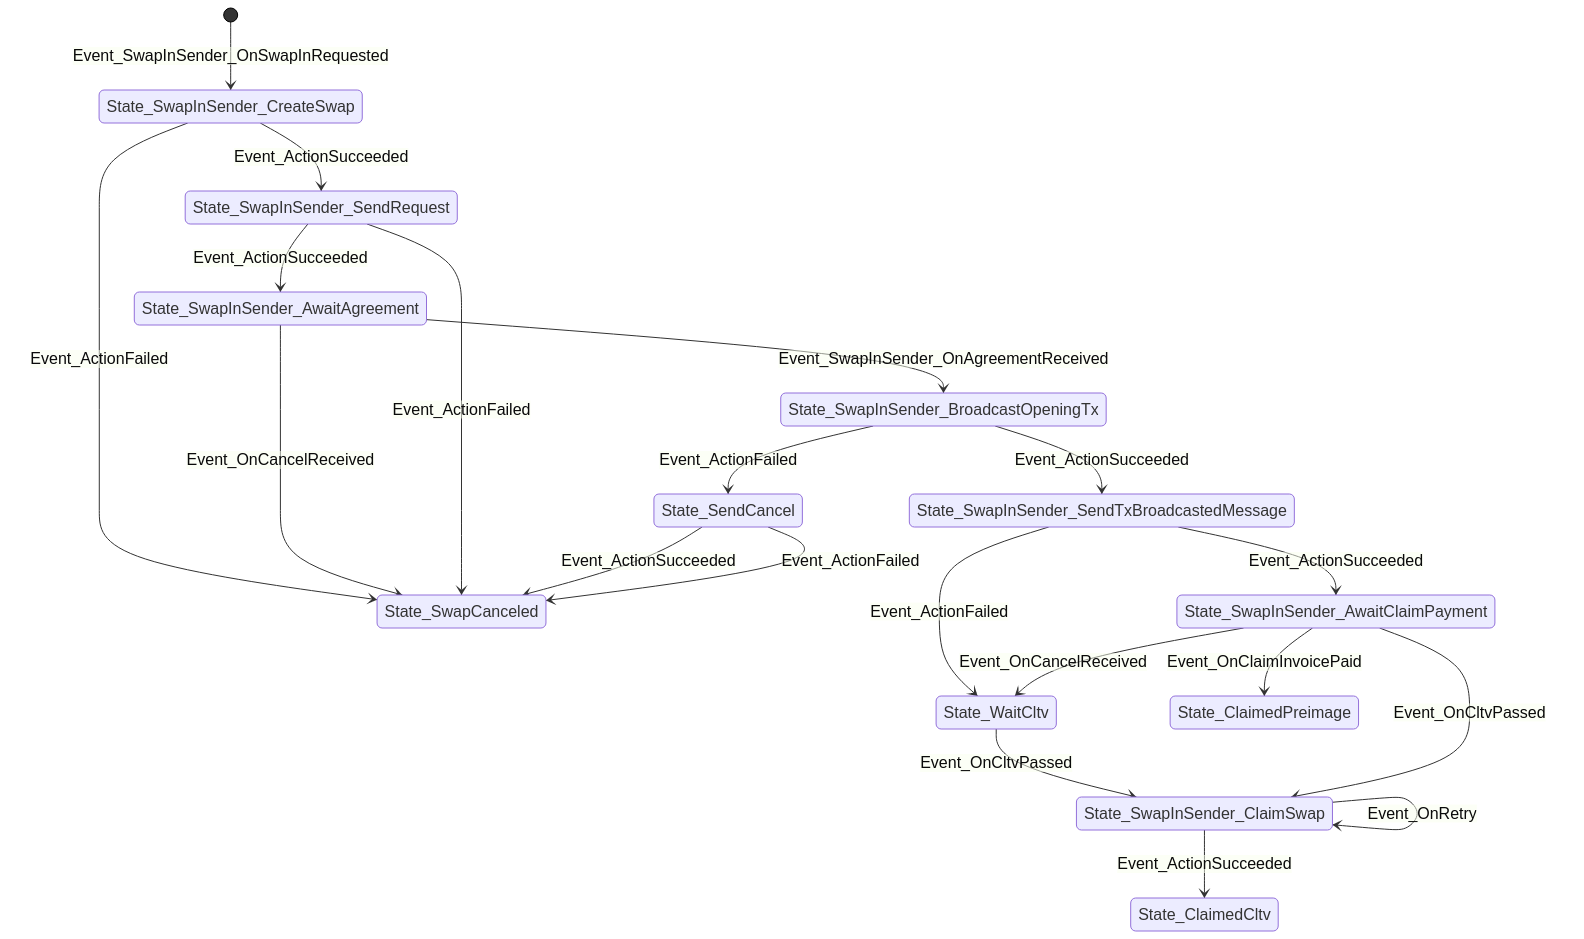
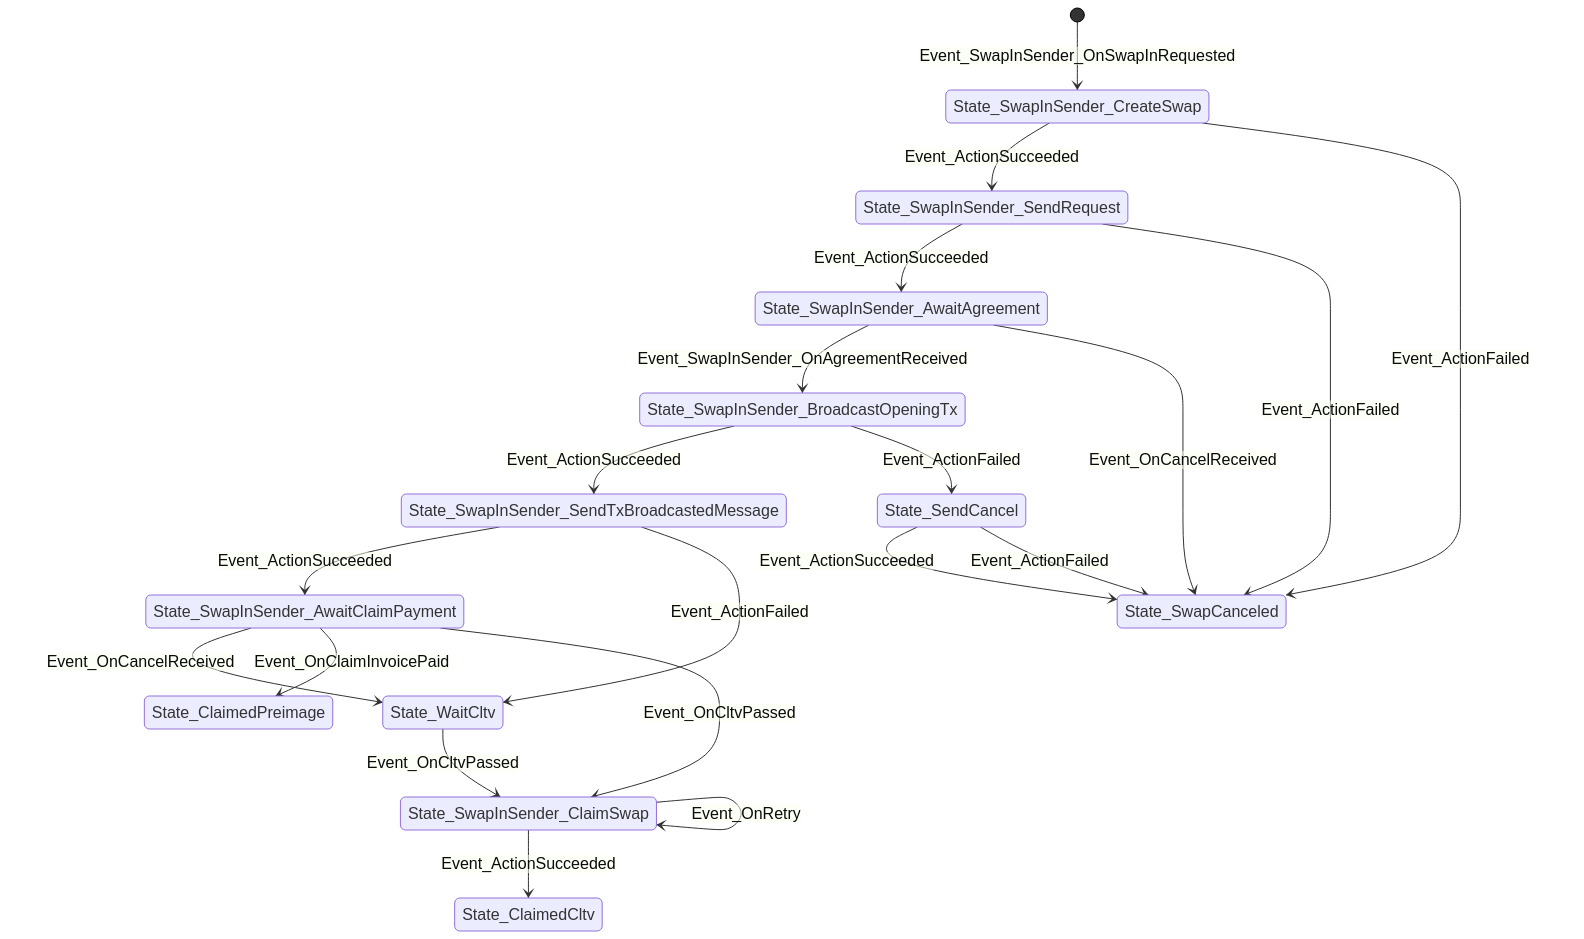
fix broken tests

diff --git a/test/test_peerswap-swap-out.py b/test/test_peerswap-swap-out.py
@@ -184,12 +184,12 @@ def test_peer_not_whitelisted(elementsd: ElementsD, node_factory: NodeFactory):
         )
 
     # wait for nodes to receive events
-    nodes[0].daemon.wait_for_log("Event_OnCancelReceived on State_SwapOutSender_RequestSent")
-    nodes[1].daemon.wait_for_log("Event_Action_Success on State_SendCancel")
+    nodes[0].daemon.wait_for_log("Event_OnCancelReceived on State_SwapOutSender_AwaitFeeResponse")
+    nodes[1].daemon.wait_for_log("Event_ActionSucceeded on State_SendCancel")
 
     # assert swap canceled on both nodes
-    wait_for(lambda: has_current_state(nodes[0], "State_SwapOut_Canceled"))
-    wait_for(lambda: has_current_state(nodes[1], "State_SwapOut_Canceled"))
+    wait_for(lambda: has_current_state(nodes[0], "State_SwapCanceled"))
+    wait_for(lambda: has_current_state(nodes[1], "State_SwapCanceled"))
     res = [x.rpc.call("peerswap-listswaps") for x in nodes]
     assert res[0][0]["Data"]["CancelMessage"] == CANCEL_MSG
     assert res[1][0]["Data"]["CancelMessage"] == CANCEL_MSG
@@ -265,5 +265,5 @@ def test_accept_all_peers(elementsd: ElementsD, node_factory: NodeFactory):
     # assert opening tx broadcasted and tx broadcasted
     # msg sent and also awaiting confirmations on
     # receiver.
-    wait_for(lambda: has_current_state(nodes[0], "State_SwapOutSender_TxBroadcasted"))
-    wait_for(lambda: has_current_state(nodes[1], "State_SwapOutReceiver_TxMsgSent"))
+    wait_for(lambda: has_current_state(nodes[0], "State_SwapOutSender_AwaitTxConfirmation"))
+    wait_for(lambda: has_current_state(nodes[1], "State_SwapOutReceiver_AwaitClaimInvoicePayment"))

diff --git a/test/test_peerswap-swap-in.py b/test/test_peerswap-swap-in.py
@@ -174,8 +174,8 @@ def test_peer_not_whitelisted(elementsd: ElementsD, node_factory: NodeFactory):
         )
 
     # wait for nodes to receive events
-    nodes[0].daemon.wait_for_log("Event_Action_Success on State_SendCancel")
-    nodes[1].daemon.wait_for_log("Event_OnCancelReceived on State_SwapInSender_SwapInRequestSent")
+    nodes[0].daemon.wait_for_log("Event_ActionSucceeded on State_SendCancel")
+    nodes[1].daemon.wait_for_log("Event_OnCancelReceived on State_SwapInSender_AwaitAgreement")
 
     wait_for(lambda: has_current_state(nodes[0], "State_SwapCanceled"))
     wait_for(lambda: has_current_state(nodes[1], "State_SwapCanceled"))
@@ -253,5 +253,5 @@ def test_accept_all_peers(elementsd: ElementsD, node_factory: NodeFactory):
     # assert opening tx broadcasted and tx broadcasted
     # msg sent and also awaiting confirmations on
     # receiver.
-    wait_for(lambda: has_current_state(nodes[0], "State_SwapInReceiver_WaitForConfirmations"))
-    wait_for(lambda: has_current_state(nodes[1], "State_SwapInSender_TxMsgSent"))
+    wait_for(lambda: has_current_state(nodes[0], "State_SwapInReceiver_AwaitTxConfirmation"))
+    wait_for(lambda: has_current_state(nodes[1], "State_SwapInSender_AwaitClaimPayment"))

diff --git a/swap/swap_out_sender_test.go b/swap/swap_out_sender_test.go
@@ -3,7 +3,6 @@ package swap
 import (
 	"encoding/json"
 	"errors"
-	"log"
 	"testing"
 
 	"github.com/sputn1ck/glightning/glightning"
@@ -23,7 +22,6 @@ func Test_SwapMarshalling(t *testing.T) {
 		t.Fatal(err)
 	}
 
-	log.Printf("%s", string(swapBytes))
 	var sm *SwapStateMachine
 
 	err = json.Unmarshal(swapBytes, &sm)
@@ -231,7 +229,6 @@ func (d *dummyMessenger) AddMessageHandler(f func(peerId string, msgType string,
 }
 
 func (d *dummyMessenger) SendMessage(peerId string, msg []byte, msgType int) error {
-	log.Printf("Dummy sending message %v to %s", msg, peerId)
 	if d.msgChan != nil {
 		go func() { d.msgChan <- DummyMessageType(msgType) }()
 	}

diff --git a/lightning/lightning_test.go b/lightning/lightning_test.go
@@ -2,10 +2,10 @@ package lightning
 
 import (
 	"encoding/hex"
-	"github.com/stretchr/testify/assert"
-	"log"
 	"math/big"
 	"testing"
+
+	"github.com/stretchr/testify/assert"
 )
 
 var (
@@ -37,6 +37,5 @@ func checkFeatures(features []byte, featureBit int64) bool {
 	bitInt = bitInt.Exp(big.NewInt(2), big.NewInt(featureBit), nil)
 	compareInt := big.NewInt(0)
 	compareInt = compareInt.And(featuresInt, bitInt)
-	log.Printf("compare: %v %v %v", featuresInt, bitInt, compareInt)
 	return compareInt.Cmp(bitInt) == 0
 }

diff --git a/swap/swap_out_sender.go b/swap/swap_out_sender.go
@@ -77,7 +77,6 @@ func (r *PayFeeInvoiceAction) Execute(services *SwapServices, swap *SwapData) Ev
 	// policy := services.policy
 	invoice, err := ll.DecodePayreq(swap.FeeInvoice)
 	if err != nil {
-
 		log.Printf("error decoding %v", err)
 		return Event_ActionFailed
 	}

diff --git a/cmd/peerswap/main.go b/cmd/peerswap/main.go
@@ -46,7 +46,7 @@ func run() error {
 	if err != nil {
 		return err
 	}
-	
+
 	err = lightningPlugin.RegisterMethods()
 	if err != nil {
 		return err

diff --git a/docs/swap-in-receiver-states.md b/docs/swap-in-receiver-states.md
@@ -1,23 +1,5 @@
 ```mermaid
 stateDiagram-v2
-State_SwapInReceiver_ClaimSwap
-State_SwapInReceiver_ClaimSwap --> State_ClaimedPreimage: Event_ActionSucceeded
-State_SwapInReceiver_ClaimSwap --> State_SwapInReceiver_ClaimSwap: Event_OnRetry
-State_ClaimedPreimage
-State_SwapInReceiver_AwaitTxBroadcastedMessage
-State_SwapInReceiver_AwaitTxBroadcastedMessage --> State_SwapInReceiver_AwaitTxConfirmation: Event_OnTxOpenedMessage
-State_SwapInReceiver_AwaitTxBroadcastedMessage --> State_SwapCanceled: Event_OnCancelReceived
-State_SwapInReceiver_AwaitTxConfirmation
-State_SwapInReceiver_AwaitTxConfirmation --> State_SwapInReceiver_ValidateTxAndPayClaimInvoice: Event_OnTxConfirmed
-State_SwapInReceiver_AwaitTxConfirmation --> State_SendCancel: Event_ActionFailed
-State_SwapInReceiver_AwaitTxConfirmation --> State_SwapCanceled: Event_OnCancelReceived
-State_SwapInReceiver_ValidateTxAndPayClaimInvoice
-State_SwapInReceiver_ValidateTxAndPayClaimInvoice --> State_SwapInReceiver_ClaimSwap: Event_ActionSucceeded
-State_SwapInReceiver_ValidateTxAndPayClaimInvoice --> State_SendCancel: Event_ActionFailed
-State_SendCancel
-State_SendCancel --> State_SwapCanceled: Event_ActionFailed
-State_SendCancel --> State_SwapCanceled: Event_ActionSucceeded
-State_SwapCanceled
 [*] --> State_SwapInReceiver_CreateSwap: Event_SwapInReceiver_OnRequestReceived
 State_SwapInReceiver_CreateSwap
 State_SwapInReceiver_CreateSwap --> State_SwapInReceiver_SendAgreement: Event_ActionSucceeded
@@ -25,4 +7,22 @@ State_SwapInReceiver_CreateSwap --> State_SendCancel: Event_ActionFailed
 State_SwapInReceiver_SendAgreement
 State_SwapInReceiver_SendAgreement --> State_SwapInReceiver_AwaitTxBroadcastedMessage: Event_ActionSucceeded
 State_SwapInReceiver_SendAgreement --> State_SendCancel: Event_ActionFailed
+State_SwapInReceiver_AwaitTxConfirmation
+State_SwapInReceiver_AwaitTxConfirmation --> State_SwapInReceiver_ValidateTxAndPayClaimInvoice: Event_OnTxConfirmed
+State_SwapInReceiver_AwaitTxConfirmation --> State_SendCancel: Event_ActionFailed
+State_SwapInReceiver_AwaitTxConfirmation --> State_SwapCanceled: Event_OnCancelReceived
+State_ClaimedPreimage
+State_SendCancel
+State_SendCancel --> State_SwapCanceled: Event_ActionSucceeded
+State_SendCancel --> State_SwapCanceled: Event_ActionFailed
+State_SwapInReceiver_AwaitTxBroadcastedMessage
+State_SwapInReceiver_AwaitTxBroadcastedMessage --> State_SwapInReceiver_AwaitTxConfirmation: Event_OnTxOpenedMessage
+State_SwapInReceiver_AwaitTxBroadcastedMessage --> State_SwapCanceled: Event_OnCancelReceived
+State_SwapInReceiver_ValidateTxAndPayClaimInvoice
+State_SwapInReceiver_ValidateTxAndPayClaimInvoice --> State_SwapInReceiver_ClaimSwap: Event_ActionSucceeded
+State_SwapInReceiver_ValidateTxAndPayClaimInvoice --> State_SendCancel: Event_ActionFailed
+State_SwapInReceiver_ClaimSwap
+State_SwapInReceiver_ClaimSwap --> State_ClaimedPreimage: Event_ActionSucceeded
+State_SwapInReceiver_ClaimSwap --> State_SwapInReceiver_ClaimSwap: Event_OnRetry
+State_SwapCanceled
 ```

diff --git a/docs/swap-out-sender-states.md b/docs/swap-out-sender-states.md
@@ -1,32 +1,32 @@
 ```mermaid
 stateDiagram-v2
+State_ClaimedPreimage
+[*] --> State_SwapOutSender_CreateSwap: Event_OnSwapOutStarted
 State_SwapOutSender_CreateSwap
 State_SwapOutSender_CreateSwap --> State_SwapOutSender_SendRequest: Event_ActionSucceeded
-State_SwapOutSender_AwaitTxBroadcastedMessage
-State_SwapOutSender_AwaitTxBroadcastedMessage --> State_SwapCanceled: Event_OnCancelReceived
-State_SwapOutSender_AwaitTxBroadcastedMessage --> State_SwapOutSender_AwaitTxConfirmation: Event_OnTxOpenedMessage
+State_SwapOutSender_AwaitFeeResponse
+State_SwapOutSender_AwaitFeeResponse --> State_SwapCanceled: Event_OnCancelReceived
+State_SwapOutSender_AwaitFeeResponse --> State_SwapOutSender_PayFeeInvoice: Event_OnFeeInvoiceReceived
 State_SendCancel
 State_SendCancel --> State_SwapCanceled: Event_ActionSucceeded
 State_SendCancel --> State_SwapCanceled: Event_ActionFailed
 State_SwapOutSender_AwaitTxConfirmation
 State_SwapOutSender_AwaitTxConfirmation --> State_SendCancel: Event_ActionFailed
 State_SwapOutSender_AwaitTxConfirmation --> State_SwapOutSender_ValidateTxAndPayClaimInvoice: Event_OnTxConfirmed
-State_SwapOutSender_ClaimSwap
-State_SwapOutSender_ClaimSwap --> State_ClaimedPreimage: Event_ActionSucceeded
-State_SwapOutSender_ClaimSwap --> State_SwapOutSender_ClaimSwap: Event_OnRetry
-State_ClaimedPreimage
-[*] --> State_SwapOutSender_CreateSwap: Event_OnSwapOutStarted
+State_SwapCanceled
 State_SwapOutSender_SendRequest
 State_SwapOutSender_SendRequest --> State_SwapCanceled: Event_ActionFailed
 State_SwapOutSender_SendRequest --> State_SwapOutSender_AwaitFeeResponse: Event_ActionSucceeded
-State_SwapOutSender_AwaitFeeResponse
-State_SwapOutSender_AwaitFeeResponse --> State_SwapCanceled: Event_OnCancelReceived
-State_SwapOutSender_AwaitFeeResponse --> State_SwapOutSender_PayFeeInvoice: Event_OnFeeInvoiceReceived
 State_SwapOutSender_PayFeeInvoice
-State_SwapOutSender_PayFeeInvoice --> State_SendCancel: Event_ActionFailed
 State_SwapOutSender_PayFeeInvoice --> State_SwapOutSender_AwaitTxBroadcastedMessage: Event_ActionSucceeded
+State_SwapOutSender_PayFeeInvoice --> State_SendCancel: Event_ActionFailed
+State_SwapOutSender_AwaitTxBroadcastedMessage
+State_SwapOutSender_AwaitTxBroadcastedMessage --> State_SwapCanceled: Event_OnCancelReceived
+State_SwapOutSender_AwaitTxBroadcastedMessage --> State_SwapOutSender_AwaitTxConfirmation: Event_OnTxOpenedMessage
 State_SwapOutSender_ValidateTxAndPayClaimInvoice
-State_SwapOutSender_ValidateTxAndPayClaimInvoice --> State_SendCancel: Event_ActionFailed
 State_SwapOutSender_ValidateTxAndPayClaimInvoice --> State_SwapOutSender_ClaimSwap: Event_ActionSucceeded
-State_SwapCanceled
+State_SwapOutSender_ValidateTxAndPayClaimInvoice --> State_SendCancel: Event_ActionFailed
+State_SwapOutSender_ClaimSwap
+State_SwapOutSender_ClaimSwap --> State_ClaimedPreimage: Event_ActionSucceeded
+State_SwapOutSender_ClaimSwap --> State_SwapOutSender_ClaimSwap: Event_OnRetry
 ```

diff --git a/docs/swap-in-sender-states.md b/docs/swap-in-sender-states.md
@@ -1,34 +1,34 @@
 ```mermaid
 stateDiagram-v2
+State_SwapInSender_AwaitClaimPayment
+State_SwapInSender_AwaitClaimPayment --> State_WaitCltv: Event_OnCancelReceived
+State_SwapInSender_AwaitClaimPayment --> State_ClaimedPreimage: Event_OnClaimInvoicePaid
+State_SwapInSender_AwaitClaimPayment --> State_SwapInSender_ClaimSwap: Event_OnCltvPassed
 State_SwapInSender_ClaimSwap
 State_SwapInSender_ClaimSwap --> State_ClaimedCltv: Event_ActionSucceeded
 State_SwapInSender_ClaimSwap --> State_SwapInSender_ClaimSwap: Event_OnRetry
 State_WaitCltv
 State_WaitCltv --> State_SwapInSender_ClaimSwap: Event_OnCltvPassed
+State_ClaimedCltv
+[*] --> State_SwapInSender_CreateSwap: Event_SwapInSender_OnSwapInRequested
 State_SwapInSender_CreateSwap
-State_SwapInSender_CreateSwap --> State_SwapCanceled: Event_ActionFailed
 State_SwapInSender_CreateSwap --> State_SwapInSender_SendRequest: Event_ActionSucceeded
-State_SwapInSender_AwaitAgreement
-State_SwapInSender_AwaitAgreement --> State_SwapInSender_BroadcastOpeningTx: Event_SwapInSender_OnAgreementReceived
-State_SwapInSender_AwaitAgreement --> State_SwapCanceled: Event_OnCancelReceived
+State_SwapInSender_CreateSwap --> State_SwapCanceled: Event_ActionFailed
 State_SwapInSender_BroadcastOpeningTx
-State_SwapInSender_BroadcastOpeningTx --> State_SendCancel: Event_ActionFailed
 State_SwapInSender_BroadcastOpeningTx --> State_SwapInSender_SendTxBroadcastedMessage: Event_ActionSucceeded
+State_SwapInSender_BroadcastOpeningTx --> State_SendCancel: Event_ActionFailed
 State_SwapInSender_SendTxBroadcastedMessage
 State_SwapInSender_SendTxBroadcastedMessage --> State_SwapInSender_AwaitClaimPayment: Event_ActionSucceeded
 State_SwapInSender_SendTxBroadcastedMessage --> State_WaitCltv: Event_ActionFailed
-State_SwapInSender_AwaitClaimPayment
-State_SwapInSender_AwaitClaimPayment --> State_ClaimedPreimage: Event_OnClaimInvoicePaid
-State_SwapInSender_AwaitClaimPayment --> State_SwapInSender_ClaimSwap: Event_OnCltvPassed
-State_SwapInSender_AwaitClaimPayment --> State_WaitCltv: Event_OnCancelReceived
-State_ClaimedCltv
-[*] --> State_SwapInSender_CreateSwap: Event_SwapInSender_OnSwapInRequested
+State_ClaimedPreimage
 State_SwapInSender_SendRequest
-State_SwapInSender_SendRequest --> State_SwapCanceled: Event_ActionFailed
 State_SwapInSender_SendRequest --> State_SwapInSender_AwaitAgreement: Event_ActionSucceeded
+State_SwapInSender_SendRequest --> State_SwapCanceled: Event_ActionFailed
+State_SwapInSender_AwaitAgreement
+State_SwapInSender_AwaitAgreement --> State_SwapInSender_BroadcastOpeningTx: Event_SwapInSender_OnAgreementReceived
+State_SwapInSender_AwaitAgreement --> State_SwapCanceled: Event_OnCancelReceived
 State_SendCancel
 State_SendCancel --> State_SwapCanceled: Event_ActionSucceeded
 State_SendCancel --> State_SwapCanceled: Event_ActionFailed
 State_SwapCanceled
-State_ClaimedPreimage
 ```

diff --git a/docs/swap-out-receiver-states.md b/docs/swap-out-receiver-states.md
@@ -1,27 +1,27 @@
 ```mermaid
 stateDiagram-v2
-State_SwapOutReceiver_AwaitFeeInvoicePayment
-State_SwapOutReceiver_AwaitFeeInvoicePayment --> State_SwapOutReceiver_BroadcastOpeningTx: Event_OnFeeInvoicePaid
-State_SwapOutReceiver_AwaitFeeInvoicePayment --> State_SwapCanceled: Event_OnCancelReceived
-State_SwapOutReceiver_SendTxBroadcastedMessage
-State_SwapOutReceiver_SendTxBroadcastedMessage --> State_SwapOutReceiver_AwaitClaimInvoicePayment: Event_ActionSucceeded
-State_SwapOutReceiver_SendTxBroadcastedMessage --> State_SwapOutReceiver_Aborted: Event_ActionFailed
-State_SwapOutReceiver_ClaimSwap
-State_SwapOutReceiver_ClaimSwap --> State_ClaimedCltv: Event_ActionSucceeded
-State_SwapOutReceiver_ClaimSwap --> State_SwapOutReceiver_ClaimSwap: Event_OnRetry
-State_SwapCanceled
-State_ClaimedCltv
 State_ClaimedPreimage
 [*] --> State_SwapOutReceiver_CreateSwap: Event_OnSwapOutRequestReceived
-State_SwapOutReceiver_CreateSwap
-State_SwapOutReceiver_CreateSwap --> State_SwapOutReceiver_SendFeeInvoice: Event_ActionSucceeded
-State_SwapOutReceiver_CreateSwap --> State_SendCancel: Event_ActionFailed
 State_SwapOutReceiver_SendFeeInvoice
 State_SwapOutReceiver_SendFeeInvoice --> State_SendCancel: Event_ActionFailed
 State_SwapOutReceiver_SendFeeInvoice --> State_SwapOutReceiver_AwaitFeeInvoicePayment: Event_ActionSucceeded
 State_SwapOutReceiver_BroadcastOpeningTx
 State_SwapOutReceiver_BroadcastOpeningTx --> State_SwapOutReceiver_SendTxBroadcastedMessage: Event_ActionSucceeded
 State_SwapOutReceiver_BroadcastOpeningTx --> State_SendCancel: Event_ActionFailed
+State_SwapOutReceiver_ClaimSwap
+State_SwapOutReceiver_ClaimSwap --> State_ClaimedCltv: Event_ActionSucceeded
+State_SwapOutReceiver_ClaimSwap --> State_SwapOutReceiver_ClaimSwap: Event_OnRetry
+State_SwapCanceled
+State_ClaimedCltv
+State_SwapOutReceiver_CreateSwap
+State_SwapOutReceiver_CreateSwap --> State_SwapOutReceiver_SendFeeInvoice: Event_ActionSucceeded
+State_SwapOutReceiver_CreateSwap --> State_SendCancel: Event_ActionFailed
+State_SwapOutReceiver_AwaitFeeInvoicePayment
+State_SwapOutReceiver_AwaitFeeInvoicePayment --> State_SwapOutReceiver_BroadcastOpeningTx: Event_OnFeeInvoicePaid
+State_SwapOutReceiver_AwaitFeeInvoicePayment --> State_SwapCanceled: Event_OnCancelReceived
+State_SwapOutReceiver_SendTxBroadcastedMessage
+State_SwapOutReceiver_SendTxBroadcastedMessage --> State_SwapOutReceiver_AwaitClaimInvoicePayment: Event_ActionSucceeded
+State_SwapOutReceiver_SendTxBroadcastedMessage --> State_SwapOutReceiver_Aborted: Event_ActionFailed
 State_SwapOutReceiver_AwaitClaimInvoicePayment
 State_SwapOutReceiver_AwaitClaimInvoicePayment --> State_ClaimedPreimage: Event_OnClaimInvoicePaid
 State_SwapOutReceiver_AwaitClaimInvoicePayment --> State_SwapOutReceiver_Aborted: Event_OnCancelReceived
